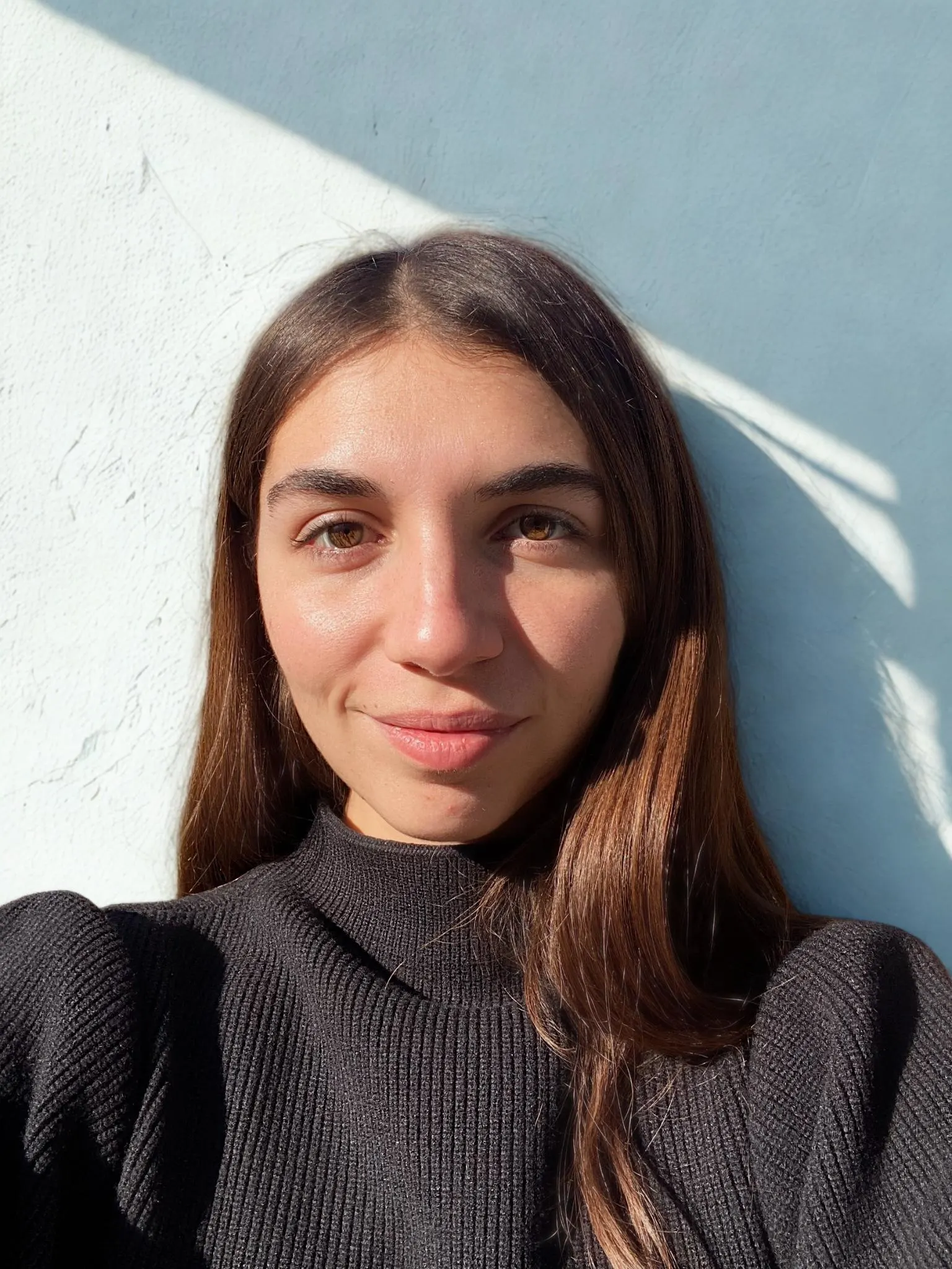
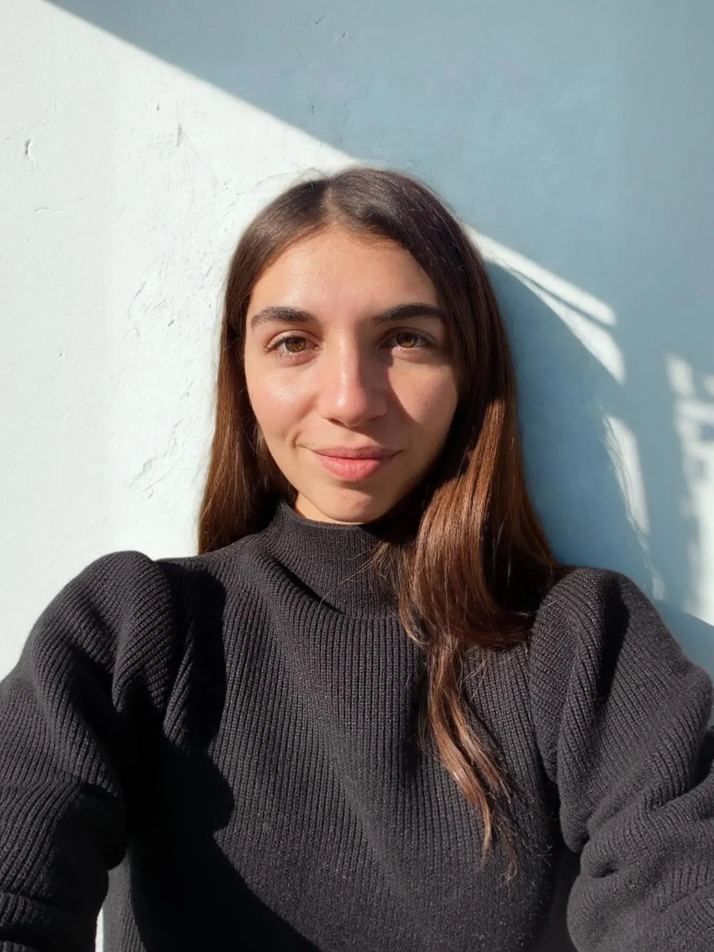
refactor(landing): 🎨 Update branding to Dislexia&Conducta and improve text
Updated all references from 'DislexiaConducta' to 'Dislexia&Conducta' for consistent branding across footer and navbar. Fixed a typo in the footer navigation label ('Para quien' to 'Para quién'). Improved CTA section paragraph structure for clarity. Made minor text and formatting adjustments in the services section for accuracy and style. Updated team image.

diff --git a/src/components/shared/footer/Footer.jsx b/src/components/shared/footer/Footer.jsx
@@ -55,9 +55,9 @@ export function Footer() {
 
         {/* Main Footer Content */}
         <div className="flex justify-between items-center flex-col-reverse lg:flex-row  gap-8 mt-16 px-4 sm:px-6 lg:px-8 xl:px-20">
-          {/* Left Column - DislexiaConducta Info */}
+          {/* Left Column - Dislexia&Conducta Info */}
           <div className="space-y-4 max-w-md">
-            <h3 className="text-xl font-bold mb-4">DislexiaConducta</h3>
+            <h3 className="text-xl font-bold mb-4">Dislexia&Conducta</h3>
             <p className="text-lg font-medium text-neutral-b40 leading-none mb-2">
               Espacio tecnológico e invocador para el diagnóstico,
               acompañamiento, asistencia y abordaje de los diferentes trastornos
@@ -142,8 +142,8 @@ export function Footer() {
           <div className="mb-4 flex justify-center">
             <Image
               src="/logo.svg"
-              alt="logo DislexiaConducta"
-              title="logo DislexiaConducta"
+              alt="logo Dislexia&Conducta"
+              title="logo Dislexia&Conducta"
               width={60}
               height={60}
               loading="eager"
@@ -152,7 +152,7 @@ export function Footer() {
           </div>
 
           {/* Copyright */}
-          <p className="text-sm">2025 Dislexia y conducta.</p>
+          <p className="text-sm">2025 © Dislexia y Conducta </p>
         </div>
       </div>
     </footer>

diff --git a/src/features/services/sections.jsx b/src/features/services/sections.jsx
@@ -160,7 +160,11 @@ export function PlayAttention() {
         en la NASA.
       </p>
 
-      <Link href="https://playattentionargentina.com/" title="Play Attention® Argentina" target="_blank">
+      <Link
+        href="https://playattentionargentina.com/"
+        title="Play Attention® Argentina"
+        target="_blank"
+      >
         <Button variant="ternary" size="cta">
           Visitar Play Attention® Argentina <ArrowUpRight size={24} />
         </Button>
@@ -183,8 +187,8 @@ export function Mindfulness() {
   return (
     <motion.div {...base} className="space-y-3">
       <p className="text-neutral-b0 text-base sm:text-lg md:text-xl font-medium">
-        Prácticas guiadas con realidad virtual y/o con tecnología de play
-        attention para que sea concreta tu vivencia de atención plena.
+        Prácticas guiadas con realidad virtual y/o con tecnología de Play
+        Attention® para que sea concreta tu vivencia de atención plena.
       </p>
     </motion.div>
   );

diff --git a/src/features/cta/CTA.jsx b/src/features/cta/CTA.jsx
@@ -27,9 +27,12 @@ const CTA = () => {
         </h3>
 
         {/* Párrafo descriptivo */}
-        <p className="text-lg md:text-xl text-neutral-b30 font-medium mb-6 max-w-3xl mx-auto leading-relaxed">
+        <p className="text-lg md:text-xl text-neutral-b30 font-medium max-w-3xl mx-auto leading-relaxed">
           Realiza una breve autoevaluación online para detectar posibles signos
-          de <span className="font-semibold">dislexia</span>,{" "}
+          de
+        </p>
+        <p className="text-lg md:text-xl text-neutral-b30 font-medium mb-6 max-w-3xl mx-auto leading-relaxed">
+          <span className="font-semibold">dislexia</span>,{" "}
           <span className="font-semibold">discalculia</span> o{" "}
           <span className="font-semibold">ansiedad</span>.
         </p>

diff --git a/src/components/shared/navbar/Navbar.jsx b/src/components/shared/navbar/Navbar.jsx
@@ -42,7 +42,7 @@ export function Navbar() {
               smooth
               className="text-neutral-b0 font-medium text-2xl cursor-pointer flex items-center gap-2"
             >
-              DislexiaConducta{" "}
+              Dislexia&Conducta{" "}
               <Image
                 src="/logo.svg"
                 alt="logo DislexiaConducta"

diff --git a/src/components/shared/footer/data.js b/src/components/shared/footer/data.js
@@ -11,7 +11,7 @@ export const navigationLinks = [
   },
   {
     id: 3,
-    label: 'Para quien',
+    label: 'Para quién',
     to: "para-ti",
   },
   {
